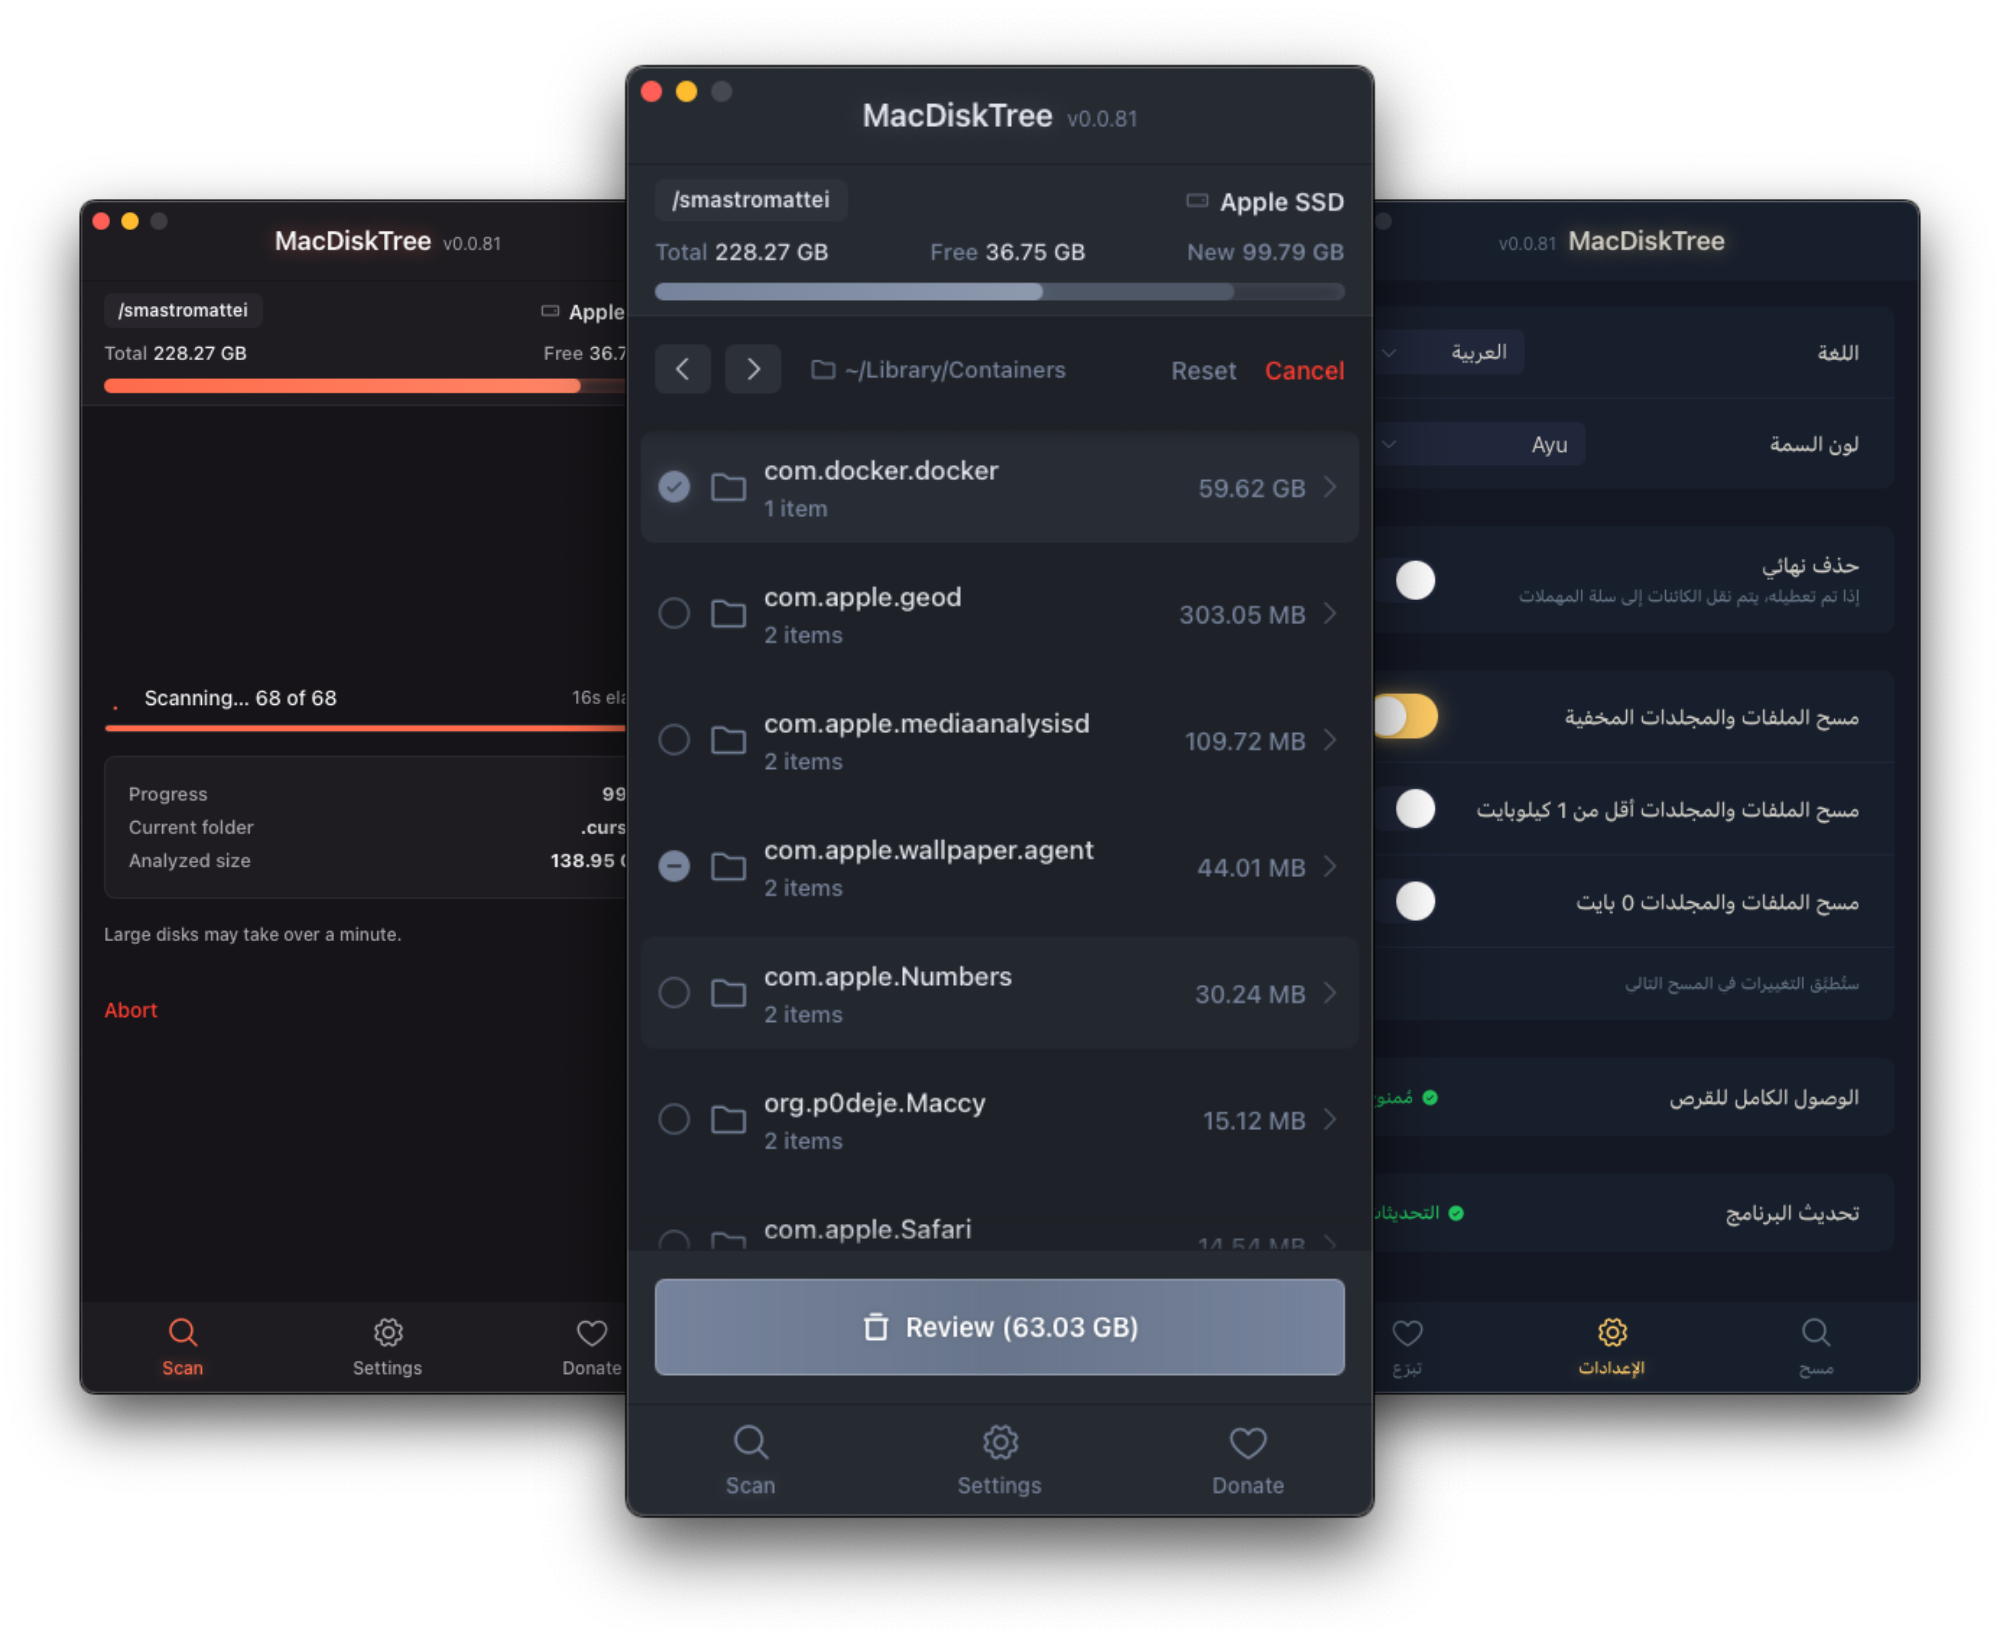
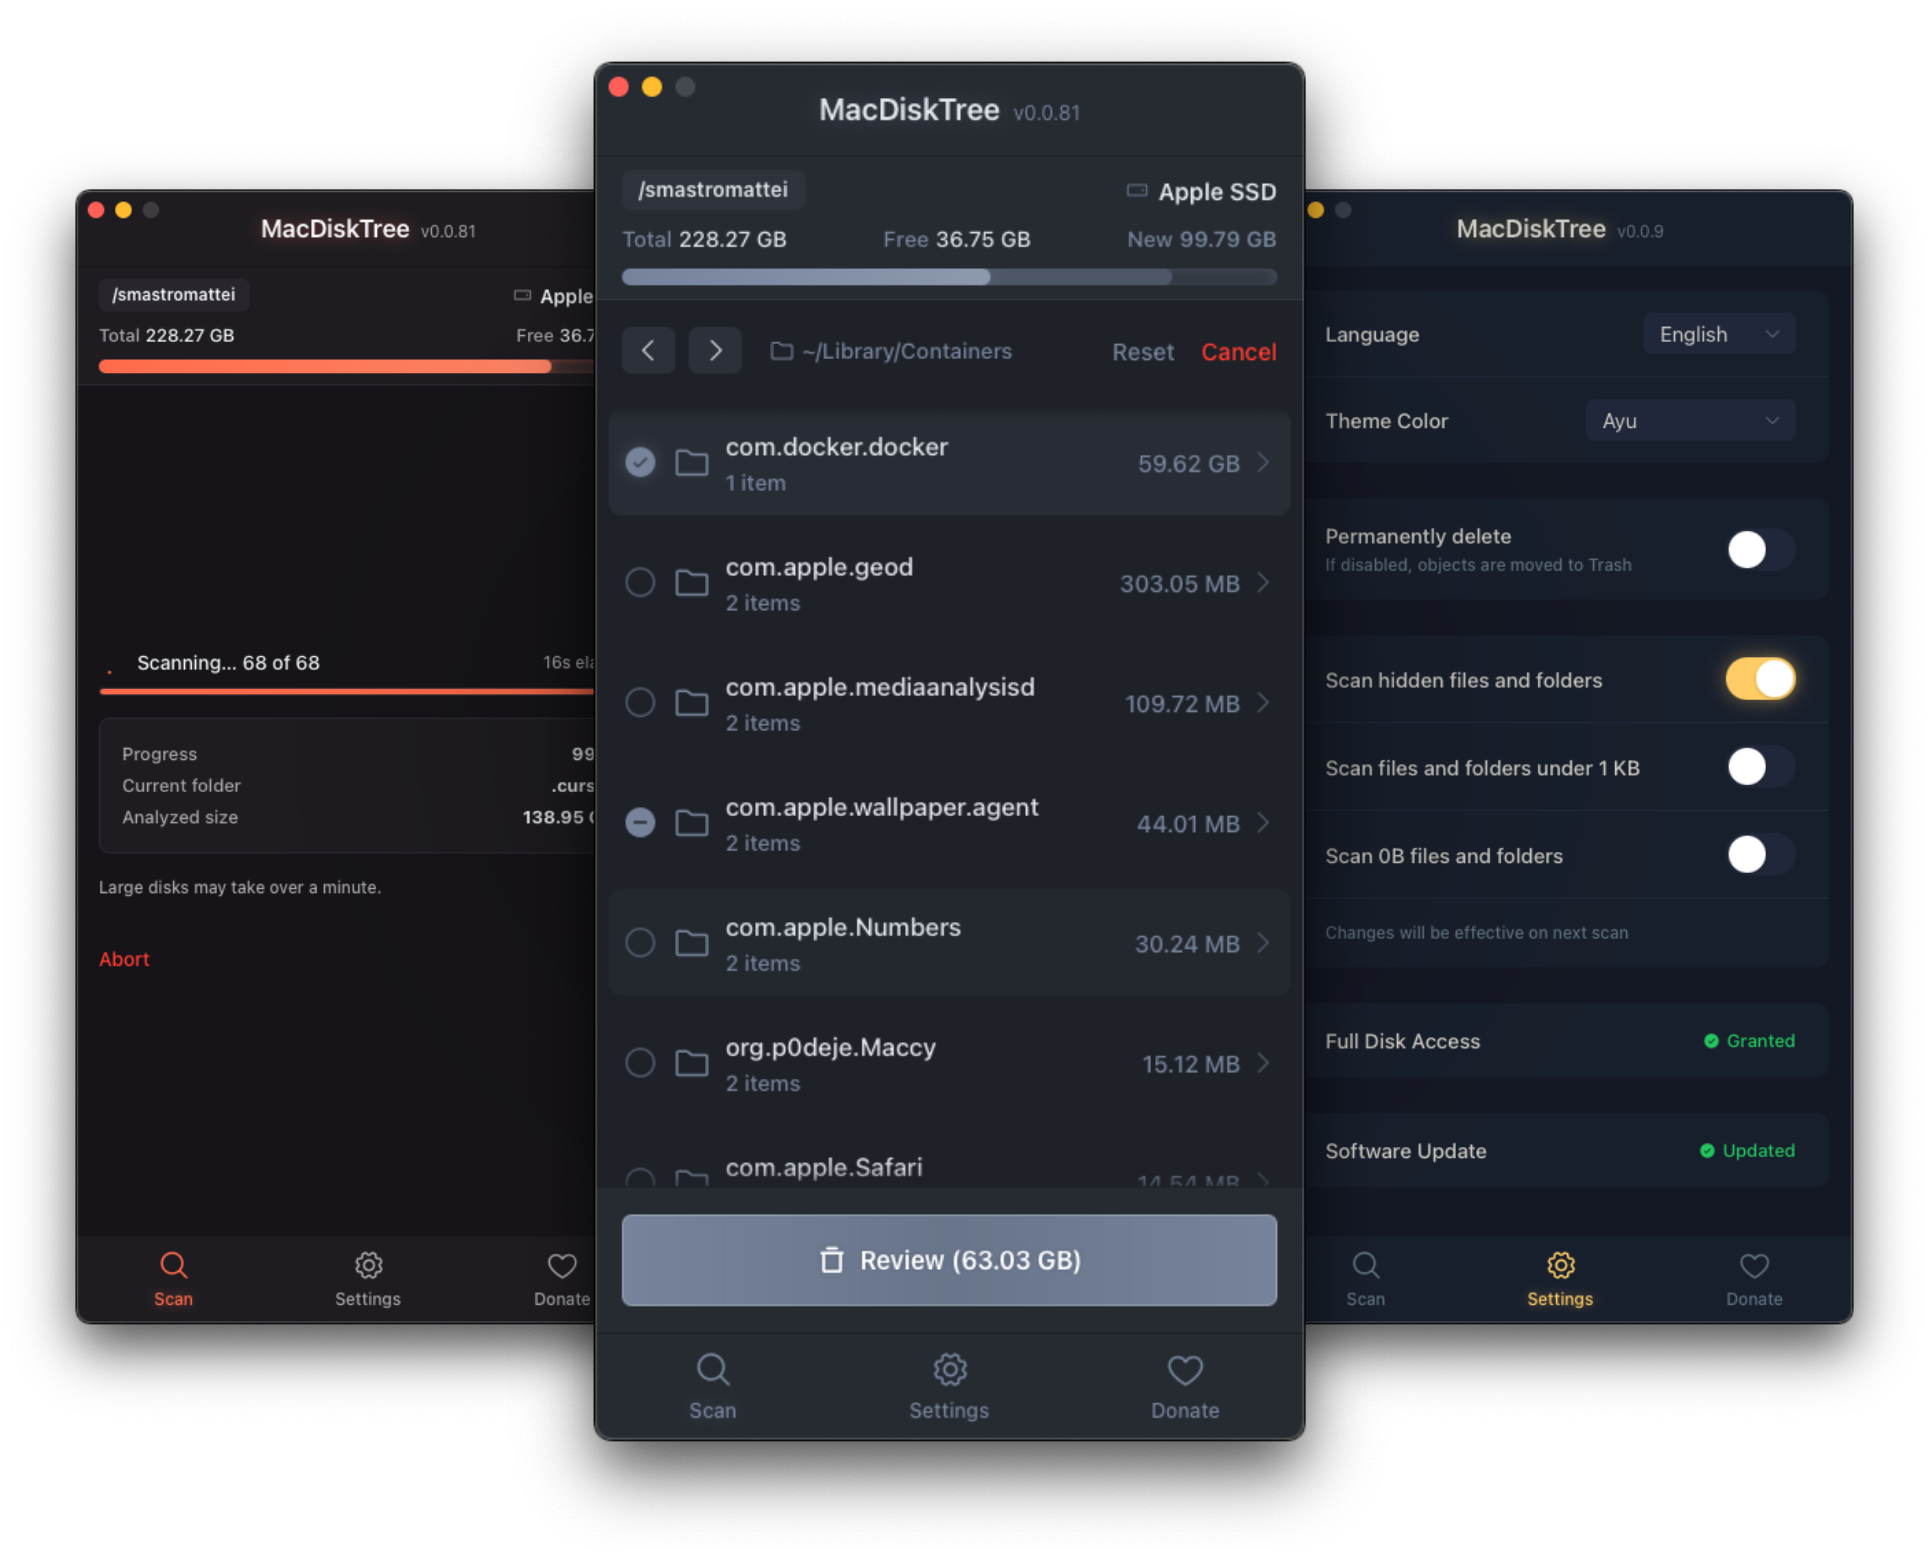
Update README

diff --git a/README.md b/README.md
@@ -21,7 +21,7 @@ MacDiskTree scans your entire user folder and presents everything as a navigable
 - **Themes** — Multiple color themes to choose from, with more on the way
 
 > [!WARNING]
-> This app can delete files and folders. Use it carefully and review your selections before confirming deletion.
+> This app can delete files and folders. Use it carefully and review your selections before confirming deletion. I do not take responsibility for any file loss.
 
 ## Preview
 
@@ -40,7 +40,7 @@ xattr -cr /Applications/MacDiskTree.app
 ```
 
 > [!NOTE]
-> The only official distribution channel is the [GitHub Releases](https://github.com/smastrom/mac-disk-tree/releases) page.
+> **Only install from [GitHub Releases](https://github.com/smastrom/mac-disk-tree/releases).** Copies from other sites or app stores may be tampered with (malware, backdoors). There is no other official distribution channel.
 
 ## Building from source
 